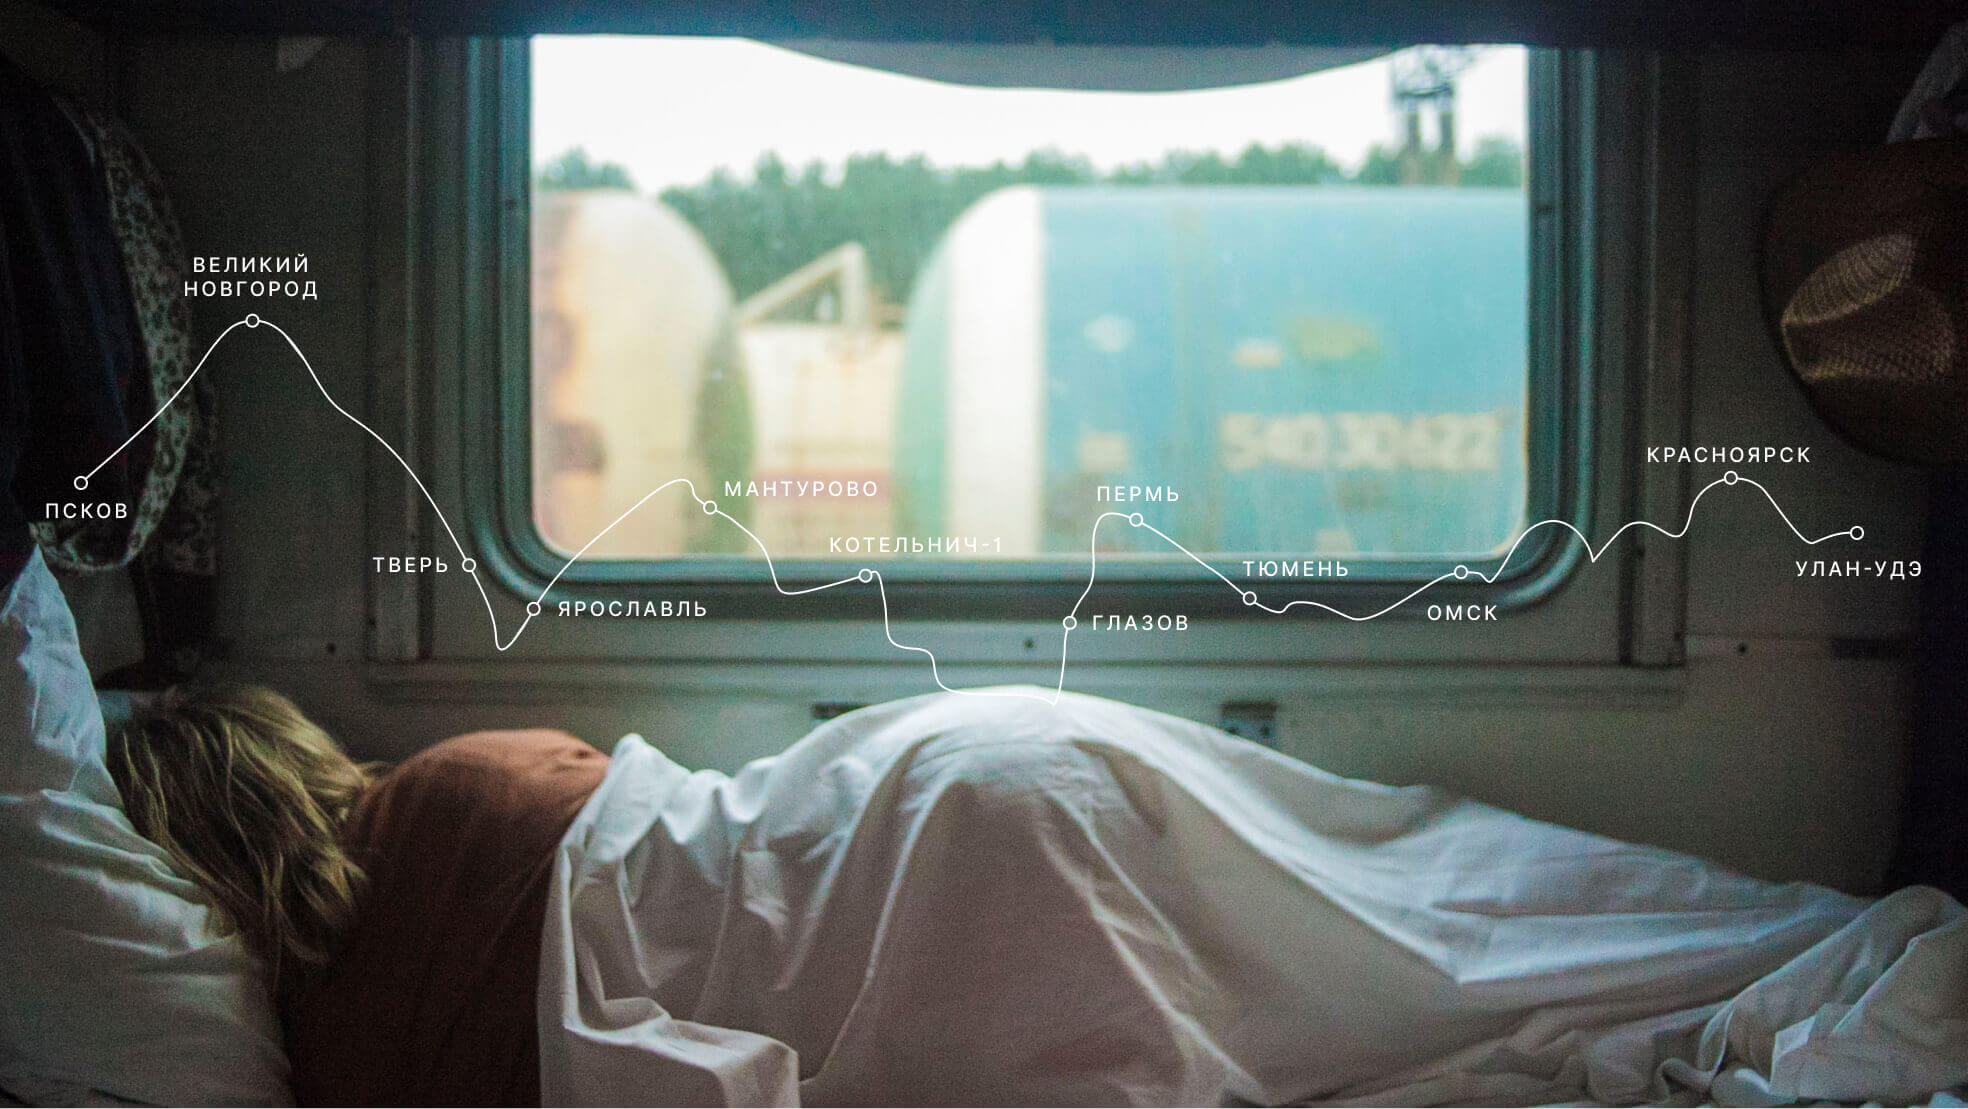
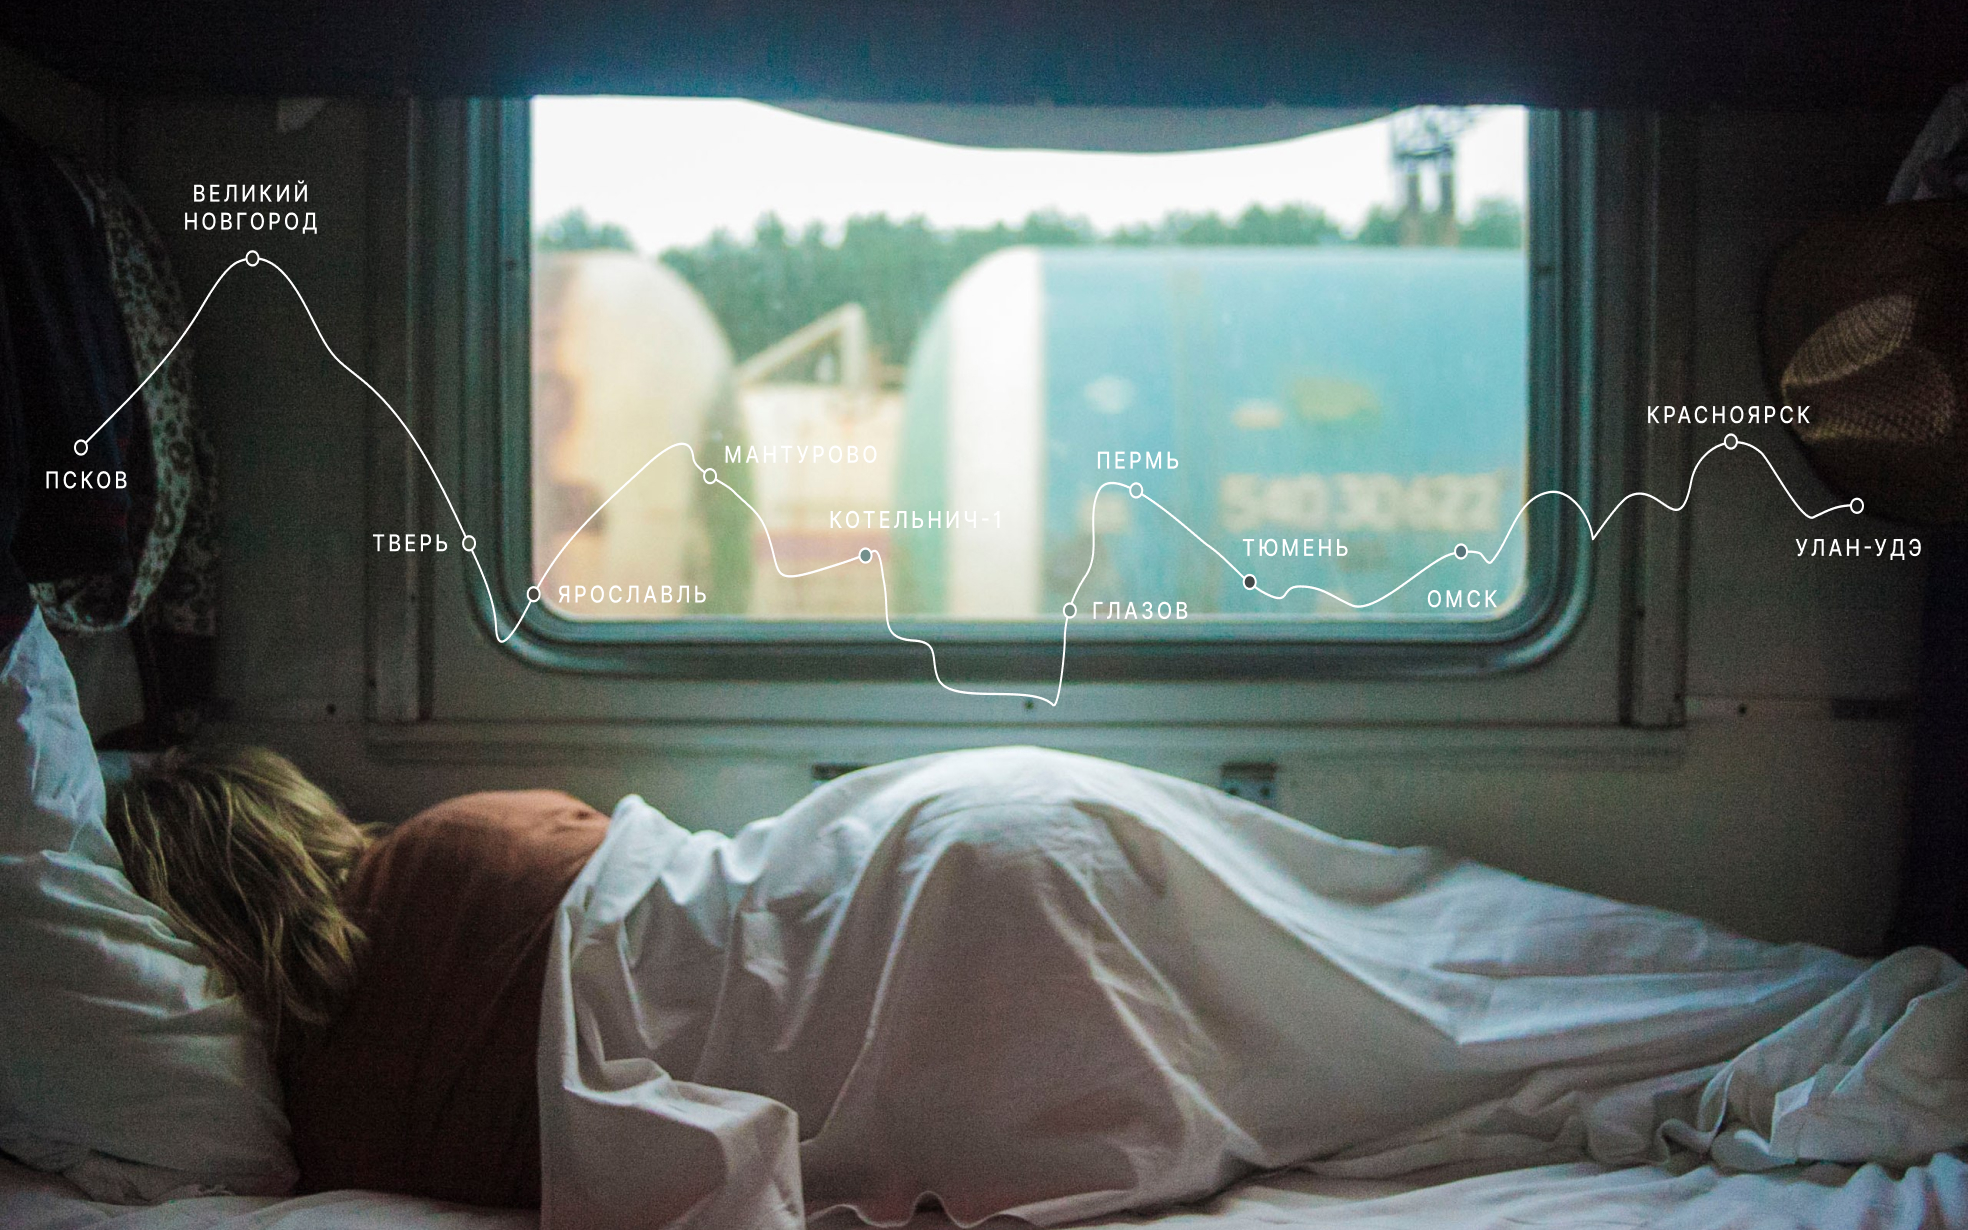
Русское путешествие v 0.01

diff --git a/index.html b/index.html
@@ -31,7 +31,7 @@
         <h1 class="lead__title">Путешествия по России</h1>
         <p class="lead__subtitle">Настоящая страна не в выпусках новостей, а здесь.</p>
         <img class="lead__image" src="images/lead-polka.jpg">
-        <p class="lead__caption">ВАША ПОЛКА - ВЕРХНЯЯ</p>
+        <p class="lead__caption">ВАША ПОЛКА — ВЕРХНЯЯ</p>
 
       </section>
 
@@ -46,55 +46,156 @@
       </section>
 
       <section class="photo-grid">
-          <img class="photo-grid__item" src="images/photo-grid-arisa.jpg">
-          <img class="photo-grid__item" src="images/photo-grid-atharva-tulsi.jpg">
-          <img class="photo-grid__item" src="images/photo-grid-baikal-2.jpg">
-          <img class="photo-grid__item" src="images/photo-grid-baikal.jpg">
-          <img class="photo-grid__item" src="images/photo-grid-elbrus.jpg">
-          <img class="photo-grid__item" src="images/photo-grid-ergaki.jpg">
-          <img class="photo-grid__item" src="images/photo-grid-kamchatka-1.jpg">
-          <img class="photo-grid__item" src="images/photo-grid-kamchatka-2.jpg">
-          <img class="photo-grid__item" src="images/photo-grid-kondratiev.jpg">
-          <img class="photo-grid__item" src="images/photo-grid-sochi.jpg">
-          <img class="photo-grid__item" src="images/photo-grid-train.jpg">
-          <img class="photo-grid__item" src="images/photo-grid-tuman.jpg">
+        <img class="photo-grid__item" src="images/photo-grid-train.jpg">
+        <img class="photo-grid__item" src="images/photo-grid-atharva-tulsi.jpg">
+        <img class="photo-grid__item" src="images/photo-grid-tuman.jpg">
+        <img class="photo-grid__item" src="images/photo-grid-sochi.jpg">
+        <img class="photo-grid__item" src="images/photo-grid-arisa.jpg">
+        <img class="photo-grid__item" src="images/photo-grid-baikal.jpg">
+        <img class="photo-grid__item" src="images/photo-grid-elbrus.jpg">
+        <img class="photo-grid__item" src="images/photo-grid-kondratiev.jpg">
+        <img class="photo-grid__item" src="images/photo-grid-kamchatka-1.jpg">
+        <img class="photo-grid__item" src="images/photo-grid-kamchatka-2.jpg">
+        <img class="photo-grid__item" src="images/photo-grid-baikal-2.jpg">
+        <img class="photo-grid__item" src="images/photo-grid-ergaki.jpg">
 
       </section>
 
       <section class="places">
         <div class="place">
           <h2 class="place__title">Куршская коса</h2>
-          <img class="place__image" src="images/place-kosa.jpg">
           <div class="place__website">
             <p class="place__url-heading">URL</p>
             <a class="place__link">park-kosa.ru</a>
           </div>
+
+          <img class="place__image" src="images/place-kosa.jpg">
+
           <div class="place__text">
-            <p class="place__text_paragraph">
-              Здесь, посреди лесов и песчаных дюн, вы сможете увидеть два водных горизонта — спокойного Куршского залива с одной стороны 
+            <p class="place__text_paragraph">Здесь, посреди лесов и песчаных дюн, вы сможете увидеть два водных горизонта — спокойного Куршского залива с одной стороны 
               и подёрнутого рябью волн Балтийского моря 
               с другой. Уникальная природная зона на краю российского анклава.
             </p>
             <p class="place__text_paragraph">
-              На этом Калининградская область не заканчивается. Для путешественника 
-и исследователя там же по соседству — самая западная точка России, Балтийская коса, — 
-и немецкое наследие россыпи небольших приморских городов. Атмосфера здешних мест исключает суету, окуная в спокойствие природы 
-и запах стального, прохладного моря.
+              На этом Калининградская область не заканчивается. Для путешественника и исследователя там же по соседству — самая западная точка России, Балтийская коса, — и немецкое наследие россыпи небольших приморских городов. Атмосфера здешних мест исключает суету, окуная в спокойствие природы и запах стального, прохладного моря.
             </p>
           </div>
-
-
         </div>
+
+          <div class="place">
+            <h2 class="place__title">Кольский</h2>
+            <div class="place__website">
+              <p class="place__url-heading">URL</p>
+              <a class="place__link">National Geographic</a>
+            </div>
+  
+            <img class="place__image" src="images/place-kolsky.jpg">
+  
+            <div class="place__text">
+              <p class="place__text_paragraph">Почти весь полуостров находится за Полярным кругом. Саамская тундра, от которой на юг — 
+                тайга, а на север — Ледовитый океан, прикидывающийся Баренцевым морем.
+              </p>
+              <p class="place__text_paragraph">
+                Возможно, вы смотрели Звягинцева и даже слышали историю арктического фестиваля в Териберке. Возможно, слово «Хибины» не осталось под снегом школьных воспоминаний об уроках географии. Возможно, вы не интересовались пронизывающей земную кору сверхглубокой скважиной, а от апатитов вас давно накрывает апатия. Но ваша мечта увидеть северное сияние начинает сбываться с билетом в Мурманск.
+              </p>
+            </div>
+          </div>
+
+          
+          <div class="place">
+            <h2 class="place__title">Алтай</h2>
+            <div class="place__website">
+              <p class="place__url-heading">URL</p>
+              <a class="place__link">Facebook</a>
+            </div>
+  
+            <img class="place__image" src="images/place-altai.jpg">
+  
+            <div class="place__text">
+              <p class="place__text_paragraph">Алтай — одно из красивейших мест в России. 
+                В первую очередь из-за гор: если ехать вдоль хребта, вы увидите склоны, усыпанные соснами, горные реки и озёра. А если вы откроете в автомобиле окна, сможете познакомиться с невидимым чудом здешних мест — горным воздухом.
+              </p>
+              <p class="place__text_paragraph">
+                Климат на Алтае умеренный, поэтому ехать сюда лучше всего летом. Так вы увидите всё разнообразие местной флоры и фауны. По лесам Алтая бродят лоси, над хребтами летают орлы, а на равнинах пасутся косули. И знаменитые манулы — тоже обитатели Алтайского края.
+              </p>
+            </div>
+          </div>
+
+          
+          <div class="place">
+            <h2 class="place__title">Зимний Байкал</h2>
+            <div class="place__website">
+              <p class="place__url-heading">URL</p>
+              <a class="place__link">https://vk.com/baikalmile</a>
+            </div>
+  
+            <img class="place__image" src="images/place-winter-baikal.jpg">
+  
+            <div class="place__text">
+              <p class="place__text_paragraph">Всем известен Байкал как крупнейшее озеро 
+                в мире. Многие также знают, что это самый большой источник пресной воды и одно из красивейших мест в России.
+              </p>
+              <p class="place__text_paragraph">
+                Конечно, это всё так. Но Байкал ещё идеальное место для соревнований по скийорингу. Это такой вид спорта, когда лыжник привязывает себя к мотоциклу, и тандем старается развить как можно бóльшую скорость на льду. В марте 2019 года на фестивале «Байкальская миля» был поставлен мировой рекорд — 197.011 км/ч.
+              </p>
+            </div>
+          </div>
+
+          
+          <div class="place">
+            <h2 class="place__title">Карелия</h2>
+            <div class="place__website">
+              <p class="place__url-heading">URL</p>
+              <a class="place__link">http://vodlozero.ru/</a>
+            </div>
+  
+            <img class="place__image" src="images/place-karelia.jpg">
+  
+            <div class="place__text">
+              <p class="place__text_paragraph">Сибирь заканчивается не на Урале, а в Карелии: образующая тайгу сибирская лиственница не растёт западнее Водлозера. Зато здесь она вымахивает на 30 метров — леса карельских национальных парков из-за непроходимых болот никогда не знали топора. Некоторым соснам уже больше чем полтысячелетия. Прикоснитесь к живому существу, видевшему солнце раньше, чем увидал его Иван Грозный. 
+                В девственном лесу на сотню километров не встретишь тропы. А на редких тропинках деревья 
+                в паре метров от земли помечены медвежьими когтями. Чтобы все знали, кто тут хозяин.
+              </p>
+            </div>
+          </div>
+
 
       </section>
 
       <section class="cover">
-
+        <div class="cover__overlay">
+          <h2 class="cover__title">До Байкала «на собаках»</h2>
+          <p class="cover__subtitle">По мотивам учебной темы о Транссибе и iframes — путешествие от столицы до Байкала на электричках.</p>
+        </div>
       </section>
 
     </main>
     <footer class="footer">
+     
+        <ul class="footer__links">
+          <li>
+            <a class="footer__link">Карты</a>
+          </li>
 
+          <li>
+            <a class="footer__link">Погода</a>
+          </li>
+
+          <li>
+            <a class="footer__link">Расписание</a>
+          </li>
+
+          <li>
+            <a class="footer__link">Календарь</a>
+          </li>
+
+          <li>
+            <a class="footer__link">Путешествия</a>
+          </li>
+        </ul>
+
+      
+      <div class="footer__copyright">© 2020. Пунгин Павел</div>
     </footer>
   </div>
 </body>

diff --git a/blocks/root/root.css b/blocks/root/root.css
@@ -31,19 +31,18 @@
 .header__lang-link{
     margin:auto;
     margin-right: 0;
+    margin-bottom: 0;
     list-style: none;
     display: inherit;
-
-
 }
 
 .lang-link{
     font-size: 24px;
-    line-height: 117%;
+    line-height: 28px;
     font-weight: normal;
     color:white;
     padding-left: 18px;
-    text-decoration: none;
+    text-decoration: underline;
 }
 
 
@@ -79,7 +78,8 @@
     margin:auto;
     margin-top: 64px;
     width: 100%;
-    height: 615px;
+    max-height: 615px;
+    object-fit: cover;
 } 
 
 .lead__caption{
@@ -133,12 +133,16 @@
     margin-top:92px;
     display: grid;
     gap: 16px;
-    grid-template-columns: repeat(auto-fill, minmax(284px, 1fr));
-    grid-template-rows:  auto;
+    grid-template-columns: repeat(auto-fit, minmax(284px, 1fr));
 }
 
 .photo-grid__item{
-    width: 100%;
+    max-width: 100%;
+    min-height: 213px;
+    object-fit: cover;
+    object-position: top;
+
+
 }
 
 
@@ -151,18 +155,20 @@
 }
 
 .place{
-    display: flex;
-    justify-content: flex-start;
-    flex-direction: column;
-    flex-wrap: wrap;
-    flex-flow: column-wrap;
-    height: 100%;
+    margin-top:80px;
+    display: grid;
+    grid-template-columns: minmax(320px,460px) minmax(288px,484px);
+    grid-template-rows: minmax(35px,max-content) max-content;
+    grid-row-gap: 48px;
+    grid-column-gap: 40px;
+    grid-template-areas:
+    "title website"
+    "image text";
 }
 
 .place__title{
+    grid-area: title;
     margin: 0;
-    max-width: 460px;
-    min-width: 288px;
     height: max-content;
     font-weight: 900;
     font-size: 72px;
@@ -170,16 +176,15 @@
 }
 
 .place__image{
-    max-width: 460px;
-    min-width: 320px;
+    grid-area: image;
+    width: 100%;
     margin:0;
-    margin-top: 48px;
 }
 
 .place__website {
-    max-width: 300px;
-    margin: auto;
-    margin-left: 40px;
+    grid-area: website;
+    width: 100%;
+    margin: 0;
     display: flex;
     justify-content: flex-end;
     flex-direction: column;
@@ -205,11 +210,9 @@
 }
 
 .place__text {
-    margin: auto;
-    margin-left: 40px;
-    margin-top: 48px;
-    max-width: 300px;
-    min-width:288px;
+    grid-area: text;
+    margin: 0;
+    width: 100%;
     height: max-content;
     display: flex;
     flex-direction: column;
@@ -222,4 +225,77 @@
     font-weight: normal;
     font-size: 18px;
     line-height: 30px;
+}
+
+.cover{
+    margin: auto 48px;
+    margin-top: 92px;
+    
+    background-image: url(../../images/cover-trains.jpg);
+    background-repeat: no-repeat;
+    background-size: cover; 
+   
+
+}
+
+.cover__overlay{
+    height: 740px;
+    width: 100%;
+    background-color: rgba(16,17,18,0.3);
+}
+
+.cover__title{
+    margin: auto;
+    padding-top: 245px;
+    max-width: 560px;
+    font-weight: 900;
+    font-size: 72px;
+    line-height: 76px;
+    text-align: center;
+    
+}
+
+.cover__subtitle{
+    margin: auto;
+    margin-top: 32px;
+    max-width: 360px;
+    height: max-content;
+    font-weight: normal;
+    font-size: 18px;
+    line-height: 22px;
+    text-align: center;
+}
+
+.footer{
+    margin:92px 48px 24px 48px;
+    display: flex;
+    flex-direction: row;
+    flex-wrap: nowrap;
+    justify-content: space-between;
+}
+
+.footer__links{
+    display: flex;
+    flex-direction: row;
+    flex-wrap: nowrap;
+    justify-content: flex-start;
+    list-style: none;
+    margin: 0;
+    padding: 0;
+}
+
+.footer__link{
+    font-weight: normal;
+    font-size: 16px;
+    line-height: 18px;
+    margin-right: 18px;
+}
+
+.footer__copyright {
+    font-weight: normal;
+    font-size: 14px;
+    line-height: 16px;
+    text-align: right;
+    margin: auto;
+    margin-right: 0;
 }
